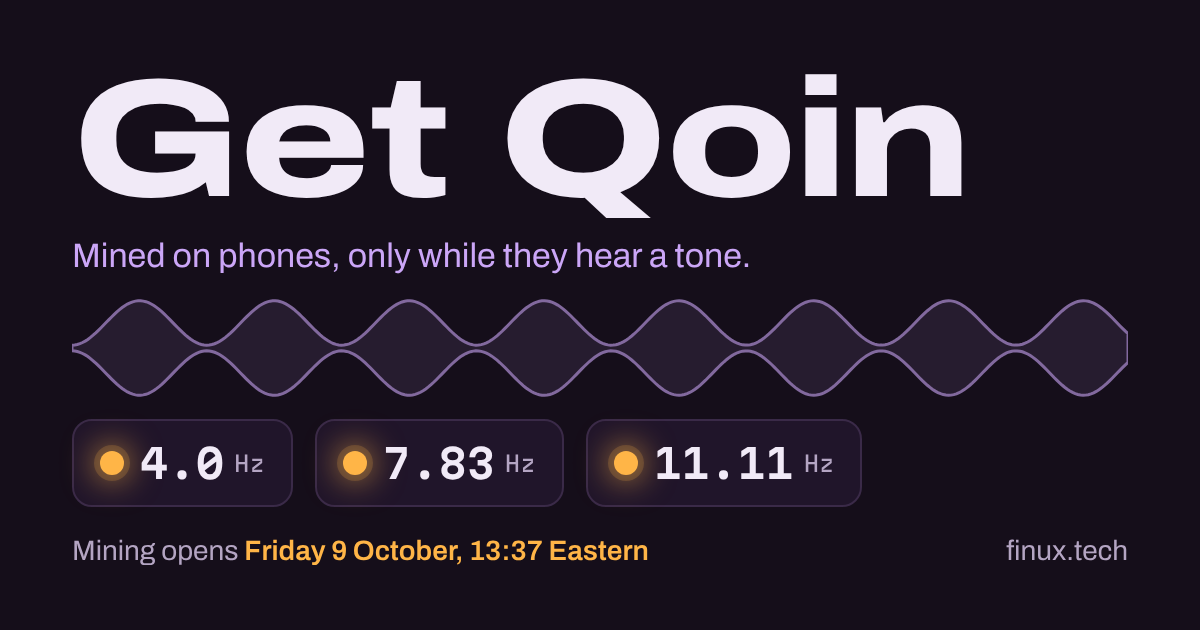
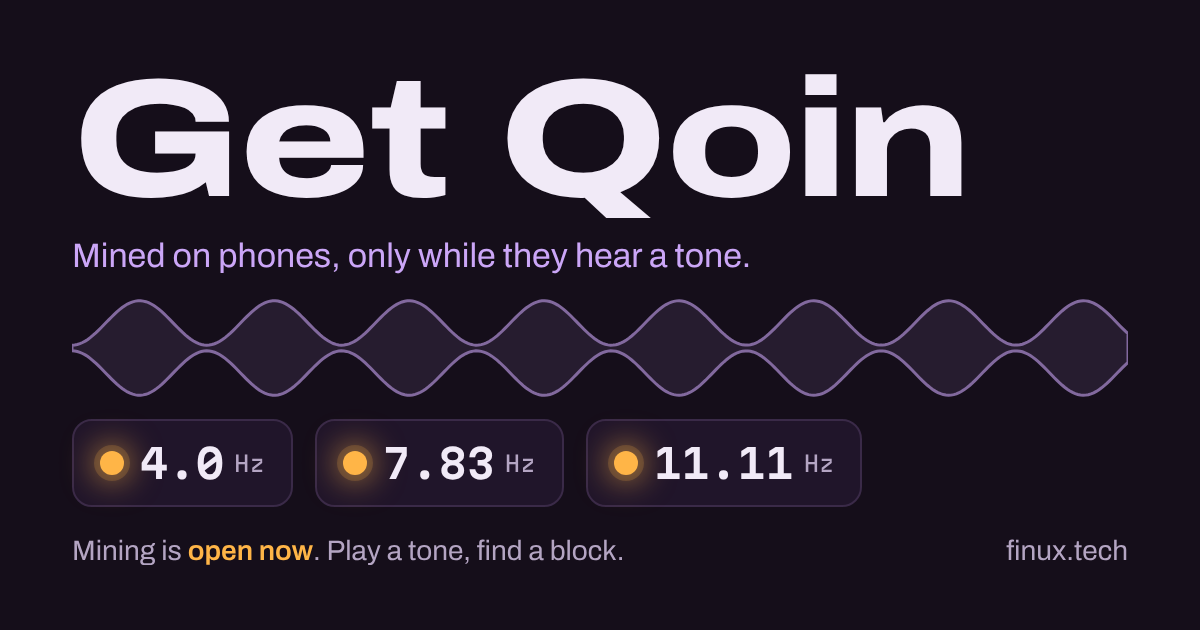
Get Qoin page: mining is open (launch moved to Thu 8 Oct, 13:37 Eastern)
Claude-Session: https://claude.ai/code/session_0158M2EiC33TcxpoKi2ZQFjL

Changed region(s): [[0.1233, 0.8444, 0.555, 0.9048]]

diff --git a/site/getqoin/index.html b/site/getqoin/index.html
@@ -4,12 +4,12 @@
 <meta charset="utf-8">
 <meta name="viewport" content="width=device-width, initial-scale=1, viewport-fit=cover">
 <title>Get Qoin | finux</title>
-<meta name="description" content="Install Graysons Wallet and mine Qoin on your Android phone, only while it hears a tone. Mining opens Friday 9 October at 13:37 Eastern.">
+<meta name="description" content="Install Graysons Wallet and mine Qoin on your Android phone, only while it hears a tone. Mining is open.">
 <meta name="theme-color" content="#f5f0fa" media="(prefers-color-scheme: light)">
 <meta name="theme-color" content="#150e1a" media="(prefers-color-scheme: dark)">
 <meta property="og:type" content="website">
 <meta property="og:title" content="Get Qoin">
-<meta property="og:description" content="Install Graysons Wallet and mine Qoin on your Android phone, only while it hears a tone. Mining opens Friday 9 October at 13:37 Eastern.">
+<meta property="og:description" content="Install Graysons Wallet and mine Qoin on your Android phone, only while it hears a tone. Mining is open.">
 <meta property="og:url" content="https://finux.tech/getqoin/">
 <meta property="og:image" content="https://finux.tech/getqoin/og.png">
 <meta property="og:image:width" content="1200">
@@ -285,8 +285,8 @@ footer a { color: var(--muted); }
 
     <div class="launch" id="launch">
       <p>
-        <span class="when before">Mining opens Friday 9 October at 13:37 Eastern.</span>
-        <span class="when after">Mining is open. The chain started Friday 9 October at 13:37 Eastern.</span>
+        <span class="when before">Mining opens Thursday 8 October at 13:37 Eastern.</span>
+        <span class="when after">Mining is open. The chain started Thursday 8 October at 13:37 Eastern.</span>
         <span class="local" id="local-time"></span>
       </p>
       <p class="countdown mono before" id="countdown" aria-live="off"></p>
@@ -353,7 +353,7 @@ footer a { color: var(--muted); }
       <div class="deal">
         <div>
           <p class="price">10 QOIN<span>for $5</span></p>
-          <p class="opens"><span class="before">Orders open at launch, Friday 9 October at 13:37 Eastern.</span><span class="after">Orders are open.</span> Coins go out once my first mined blocks unlock, about an hour after launch.</p>
+          <p class="opens"><span class="before">Orders open at launch, Thursday 8 October at 13:37 Eastern.</span><span class="after">Orders are open.</span> Coins go out once my first mined blocks unlock, about an hour after launch.</p>
           <div class="cta"><a class="btn quiet" href="https://finux.tech/contact">Message me</a></div>
         </div>
         <ul class="pay">
@@ -394,7 +394,7 @@ footer a { color: var(--muted); }
 <script>
 (function () {
   'use strict';
-  var LAUNCH = 1791567420 * 1000; // Friday 9 October 2026, 13:37 Eastern: the v0.4 genesis
+  var LAUNCH = 1791481020 * 1000; // Thursday 8 October 2026, 13:37 Eastern: the v0.4 genesis
   var $ = function (id) { return document.getElementById(id); };
   var root = document.documentElement;
 
